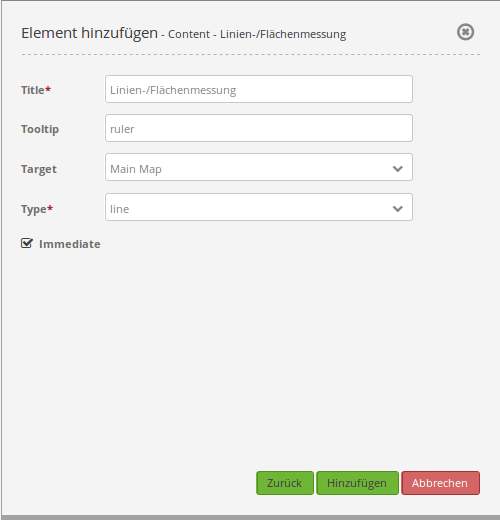
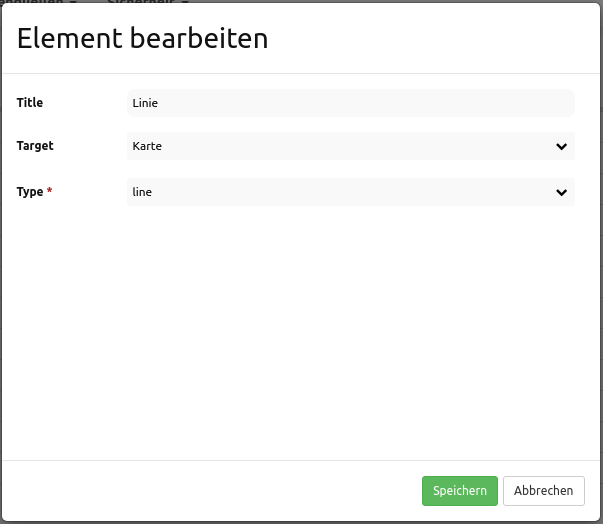
Update Ruler element

diff --git a/de/functions/basic/ruler.rst b/de/functions/basic/ruler.rst
@@ -1,9 +1,10 @@
 .. _ruler_de:
 
-Ruler: Linien-/Flächenmessung  (Line/Area Ruler)
-************************************************
+Linien-/Flächenmessung
+**********************
 
-Mit dem Lineal wird eine Linie oder eine Fläche gezeichnet, deren Länge oder Flächeninhalt berechnet wird. Durch die Auswahl eines Typs wird bestimmt, ob das Element Linien oder Flächen misst. Jedes eingebundene Ruler-Element kann nur entweder Linien oder Flächen messen.
+Mit dem Lineal wird eine Linie oder eine Fläche gezeichnet, deren Länge oder Flächeninhalt berechnet wird. Für das Element wird ein Button verwendet. Die Konfiguration findet sich unter :ref:`button_de`.
+Durch die Auswahl eines Typs wird bestimmt, ob das Element Linien oder Flächen misst. Jedes eingebundene Element kann nur entweder Linien oder Flächen messen. Für die Nutzung von beiden Funktionen (Flächen- und Linien messen) in einer Anwendung werden zwei Buttons benötigt, die in einer gemeinsamen Gruppe sind.
 
 .. image:: ../../../figures/de/ruler.png
      :scale: 80
@@ -14,30 +15,19 @@ Konfiguration
 .. image:: ../../../figures/de/ruler_configuration.png
      :scale: 80
 
-* **Title:** Titel des Elements. Dieser wird in der Layouts Liste angezeigt und ermöglicht, mehrere Button-Elemente voneinander zu unterscheiden. Der Titel wird außerdem neben dem Button angezeigt, wenn "Beschriftung anzeigen" aktiviert ist.
-* **Tooltip:** Text, der angezeigt wird, wenn der Mauszeiger eine längere Zeit über dem Element verweilt.
+* **Title:** Titel des Elements. Dieser wird im Backend in der Layouts Liste angezeigt. In der Anwendung selbst wird der Titel im Messfenster angezeigt.
 * **Target:** ID des Kartenelements, auf das sich das Element bezieht.
 * **Type:** Typ des Elements, entweder 'line' oder 'area' (misst nur einzelne Linien oder addiert diese zu einer Fläche).
-* **Immediate:** Auswahl, ob die errechneten Längen sofort angezeigt werden oder erst nach dem Klick angezeigt werden.
-
 
 YAML-Definition:
 ----------------
 
+Diese Vorlage kann genutzt werden, um das Element in einer YAML-Applikation einzubinden.
+
 .. code-block:: yaml
 
-   tooltip: "ruler"   # Text des Tooltips
-   target: ~          # ID des Kartenelements
-   type: 'line'       # Wählen Sie Typ 'line' oder 'area'
-   immediate: 'false' # true: Zeige die errechneten Längen sofort an. false: Die errechneten Längen werden erst nach Klick angezeigt. Default: False.
-
-Für das Element wird ein Button verwendet. Zu der Konfiguration des Buttons besuchen Sie die Dokumentationsseite unter :ref:`button_de`.
-Für die Nutzung von beiden Funktionen (Flächen- und Linien messen) in einer Anwendung brauchen Sie zwei Buttons, die in einer Gruppe sind.
-
-Class, Widget & Style
-=====================
-
-* **Class:** Mapbender\\CoreBundle\\Element\\Ruler
-* **Widget:** mapbender.element.ruler.js, subclasses mapbender.element.button.js
-* **Style:** mapbender.elements.css
+   title: mb.core.ruler.tag.line             # 'line', 'area' oder beliebigen Titel wählen
+   class: Mapbender\CoreBundle\Element\Ruler # Element-Klasse
+   target: map                               # ID des Kartenelements, z.B. 'map'
+   type: line                                # Wählen Sie Typ 'line' oder 'area'
 

diff --git a/en/functions/basic/ruler.rst b/en/functions/basic/ruler.rst
@@ -3,7 +3,8 @@
 Line/Area Ruler
 ***************
 
-The ruler is used to draw a line or area and display length/area in a dialog. Selecting a type determines whether the element measures lines or areas. Each ruler element can only measure either lines or areas.
+The ruler is used to draw a line or area and display length/area in a dialog. You need a button to show this element. See :ref:`button` for inherited configuration options.
+To use both functions (measuring areas and lines) in an application, you need two buttons that are in the same pre-defined group. Selecting a type determines whether the element measures lines or areas. Each ruler element can only measure either lines or areas.
 
 .. image:: ../../../figures/ruler.png
      :scale: 80
@@ -14,29 +15,19 @@ Configuration
 .. image:: ../../../figures/ruler_configuration.png
      :scale: 80
 
-* **Title:** Title of the element. The title will be listed in "Layouts" and allows to distinguish between different buttons. It will be indicated if "Show label" is activated.
-* **Tooltip:** Text to use as tooltip.
+* **Title:** Title of the element. It will be displayed in the measuring window in the application itself.
 * **Target:** ID of Map element to query.
 * **Type:** Choose type of element: line or area.
-* **Immediate:** Select whether the calculated lengths are displayed immediately or only after the click on the map.
 
 YAML-Definition:
 ----------------
 
+This template can be used to insert the element into a YAML application.
+
 .. code-block:: yaml
 
-   tooltip: "ruler"   # text to use as tooltip
-   target: ~          # ID of Map element to query
-   type: 'line'       # choose type line or area
-   immediate: 'false' # True: Display the calculated lengths immediately. False: The calculated lengths are displayed only after clicking. Default: False.
+   title: mb.core.ruler.tag.line             # Choose 'line', 'area' or another title
+   class: Mapbender\CoreBundle\Element\Ruler # Class of element
+   target: map                               # ID of Map element to query, e.g. 'map'
+   type: line                                # Choose type 'line' or 'area'
 
-
-You need a button to show this element. See :ref:`button` for inherited configuration options.
-To use both functions (measuring areas and lines) in an application, you need two buttons that are in a group.
-
-Class, Widget & Style
-=====================
-
-* **Class:** Mapbender\\CoreBundle\\Element\\Ruler
-* **Widget:** mapbender.element.ruler.js, subclasses mapbender.element.button.js
-* **Style:** mapbender.elements.css
